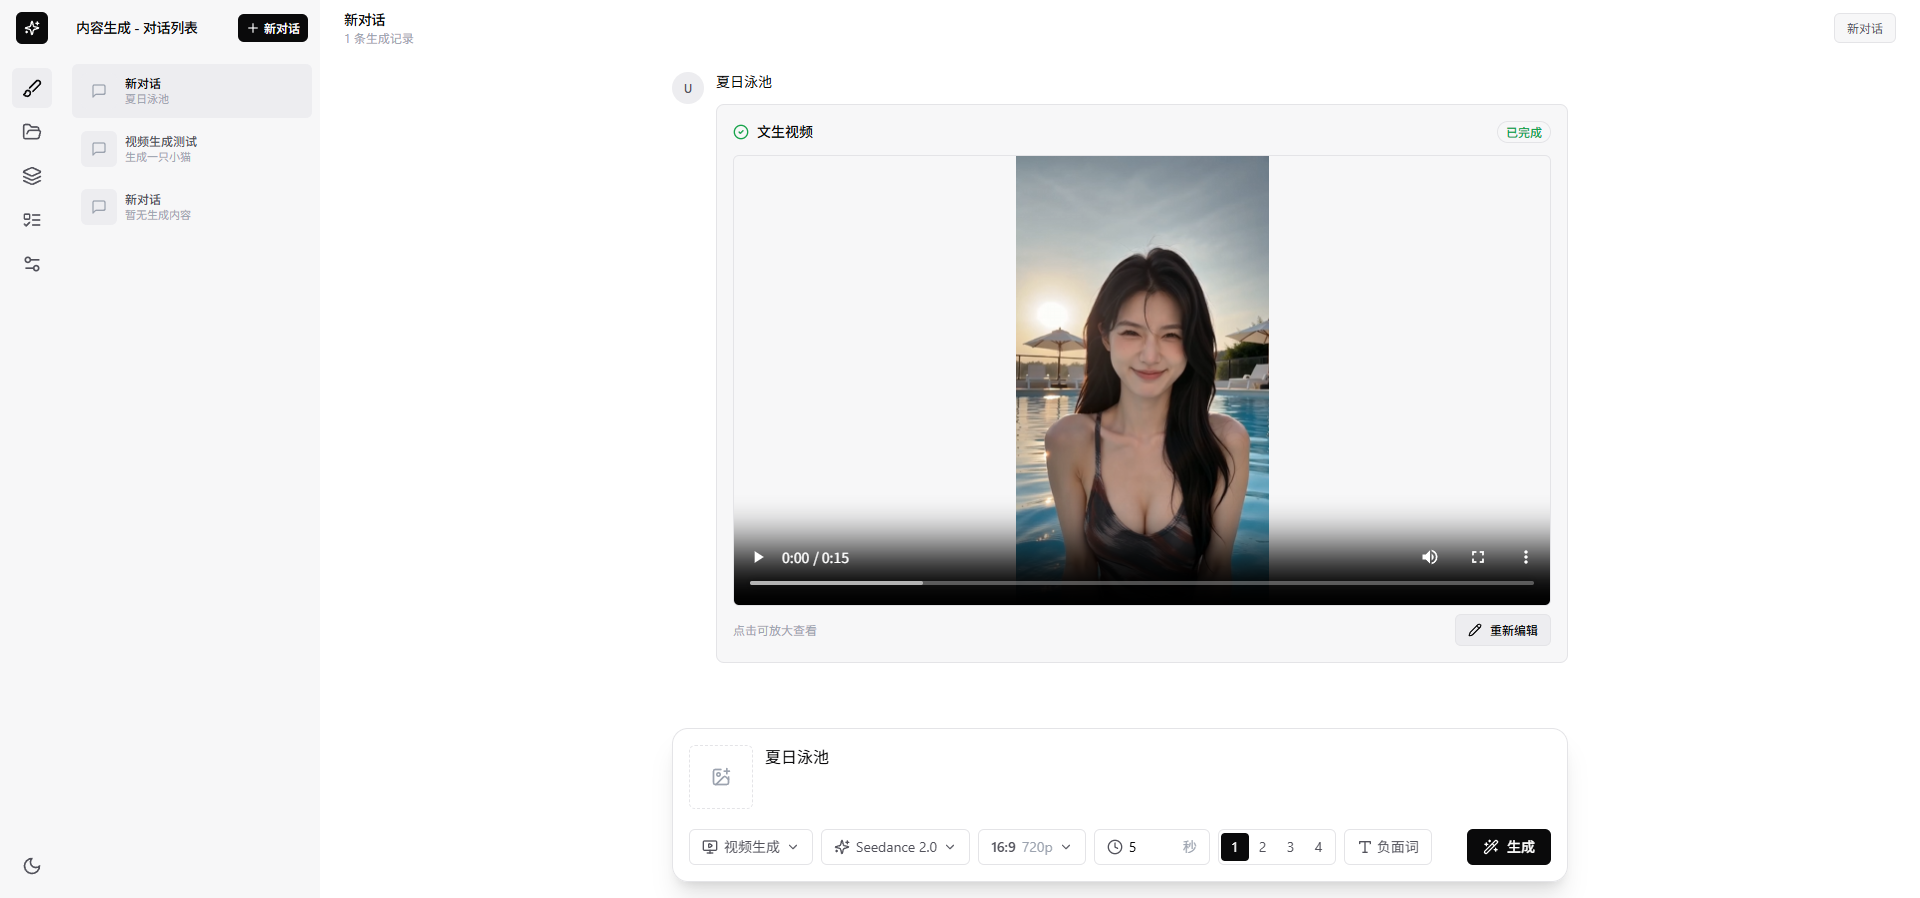
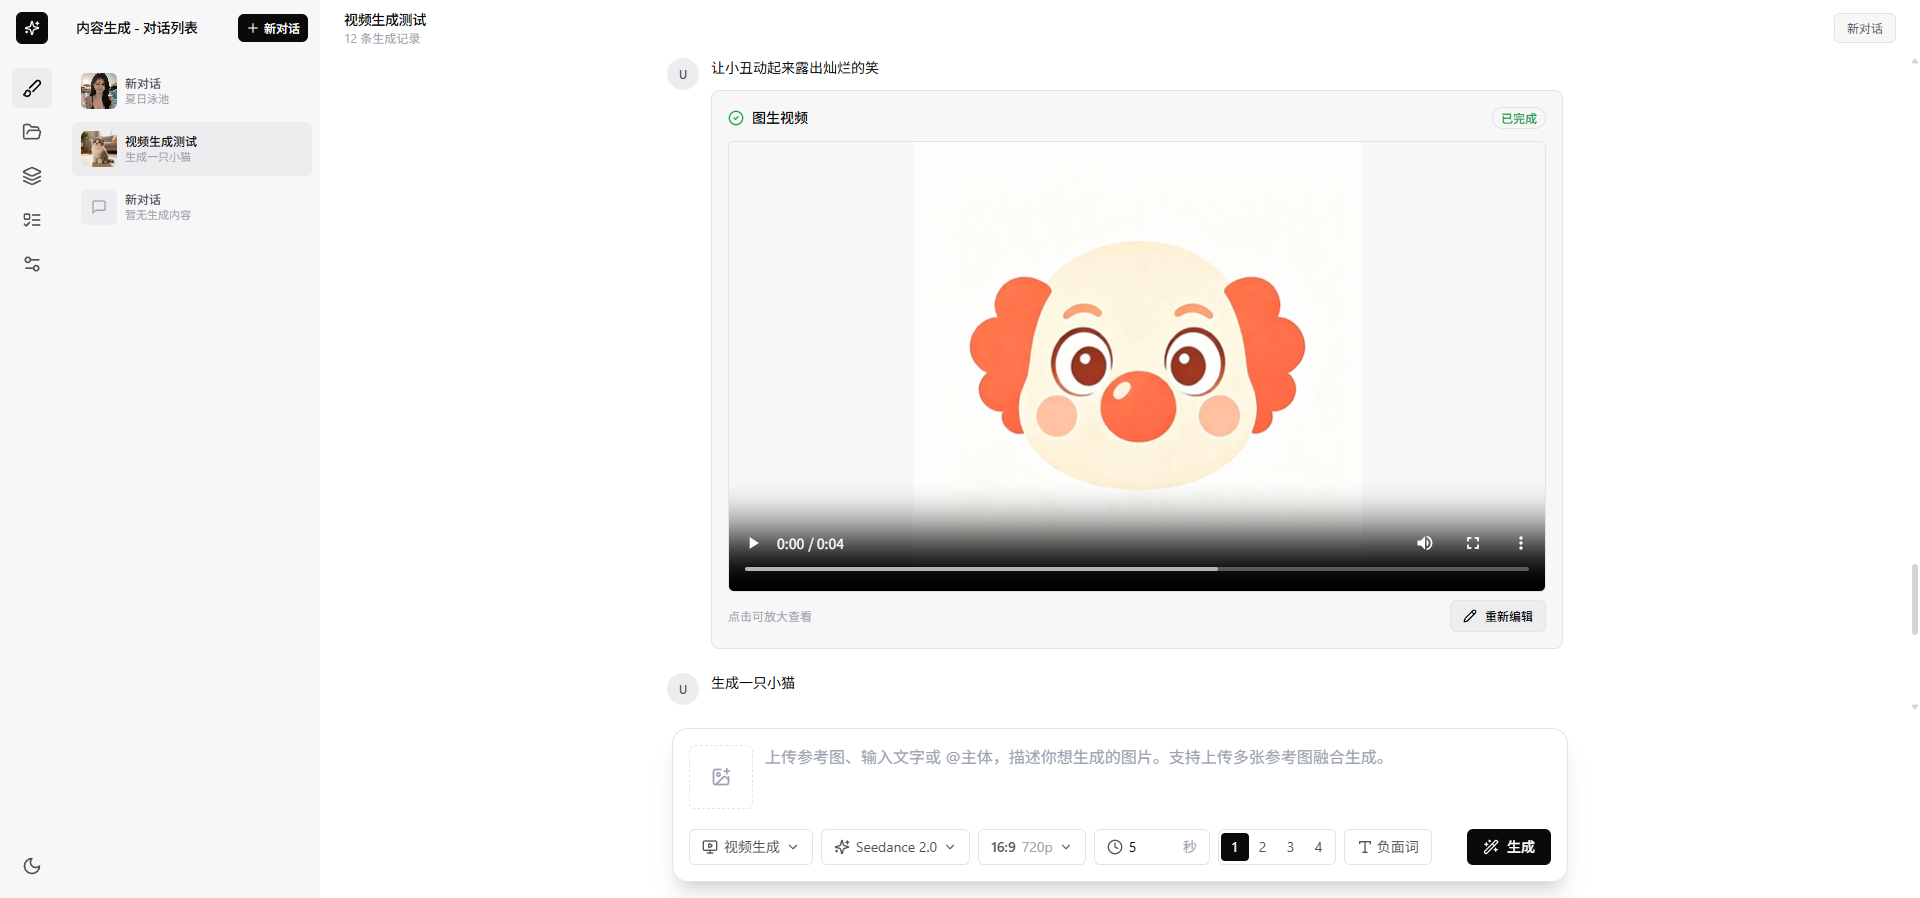
update

diff --git a/README.md b/README.md
@@ -20,44 +20,38 @@
 
 ## ✨ 产品特点
 
-- 🧹 **干净无广告** —— 专注创作，没有干扰
-- 🚀 **免注册开箱即用** —— 无需注册即可使用
-- 💾 **数据本地保存** —— 数据保存在本地，无需二次下载
-- 🎯 **设计克制** —— 谨慎增加按钮和确认环节
-- 📦 **一键部署** —— 支持 Windows / Linux / macOS，一键启动
-- 🔌 **模型灵活接入** —— 自由选择 AIGC 模型服务，提供 API 调用记录统计与分析
-- ⚡ **性能与体验领先** —— 核心功能的性能和使用体验达到同类产品领先水平（排除模型服务带来的差异）
+-  **干净无广告** —— 专注创作，没有干扰
+- **设计克制** —— 谨慎增加按钮和确认环节
+- **免注册开箱即用** —— 无需注册即可使用
+- **数据本地保存** —— 数据保存在本地，无需二次下载
+- **一键部署** —— 支持 Windows / Linux / macOS，一键启动
+- **模型灵活接入** —— 自由选择 AIGC 模型服务，提供 API 调用记录统计与分析
+- **性能与体验领先** —— 核心功能的性能和使用体验达到同类产品领先水平（排除模型服务带来的差异）
 
+![视频生成示例](frontend/src/static/video-generation-sample-01.png)
 ---
 
 ## 🚀 快速开始
 
-服务通过 Docker Compose 编排，包含前端、后端、Celery 任务队列与 Redis。首次部署只需一条命令，脚本会自动完成：
+### 本地智能体一键部署
 
-> 环境检查 → 生成 `.env`（含随机加密密钥）→ 构建镜像 → 启动服务 → 健康检查
-
-### 环境要求
-
-- 已安装 [Docker](https://docs.docker.com/get-docker/)（Windows / macOS 使用 Docker Desktop，Linux 使用 Docker Engine）
-- Docker Compose 插件（Docker Desktop 与新版 Docker Engine 已内置）
-- 端口 `10131`（前端）、`10130`（后端）未被占用
-
-### 一键部署
-
-> 💡 使用 AI 智能体？复制下面这句话发给它，即可自动完成安装部署：
+> 💡 使用 codex, workbuddy 等 AI 智能体，复制下面这句话发给它，即可自动完成安装部署：
 >
 > ```text
 > 克隆 https://github.com/Token-Spark/open-dreamina 到本地，按照仓库 README 执行一键部署脚本（Linux/macOS 运行 bash deploy.sh，Windows 运行 deploy.ps1），完成环境检查、构建镜像并启动服务，最后确认服务健康并告诉我访问地址。
 > ```
 
-**Linux / macOS**
+### 脚本部署
+服务通过 Docker Compose 编排，包含前端、后端、Celery 任务队列与 Redis。首次部署只需一条命令，脚本会自动完成：
 
+> 环境检查 → 生成 `.env`（含随机加密密钥）→ 构建镜像 → 启动服务 → 健康检查
+
+**Linux / macOS 脚本部署**
 ```bash
 bash deploy.sh
 ```
 
-**Windows**
-
+**Windows 脚本部署**
 在项目根目录打开 PowerShell，执行：
 
 ```powershell
@@ -65,6 +59,14 @@ bash deploy.sh
 ```
 
 > 💡 若提示脚本被禁止执行，先运行 `Set-ExecutionPolicy -Scope Process Bypass` 再执行。
+
+
+
+### 环境要求
+
+- 已安装 [Docker](https://docs.docker.com/get-docker/)（Windows / macOS 使用 Docker Desktop，Linux 使用 Docker Engine）
+- Docker Compose 插件（Docker Desktop 与新版 Docker Engine 已内置）
+- 端口 `10131`（前端）、`10130`（后端）未被占用
 
 ### 部署完成后
 
